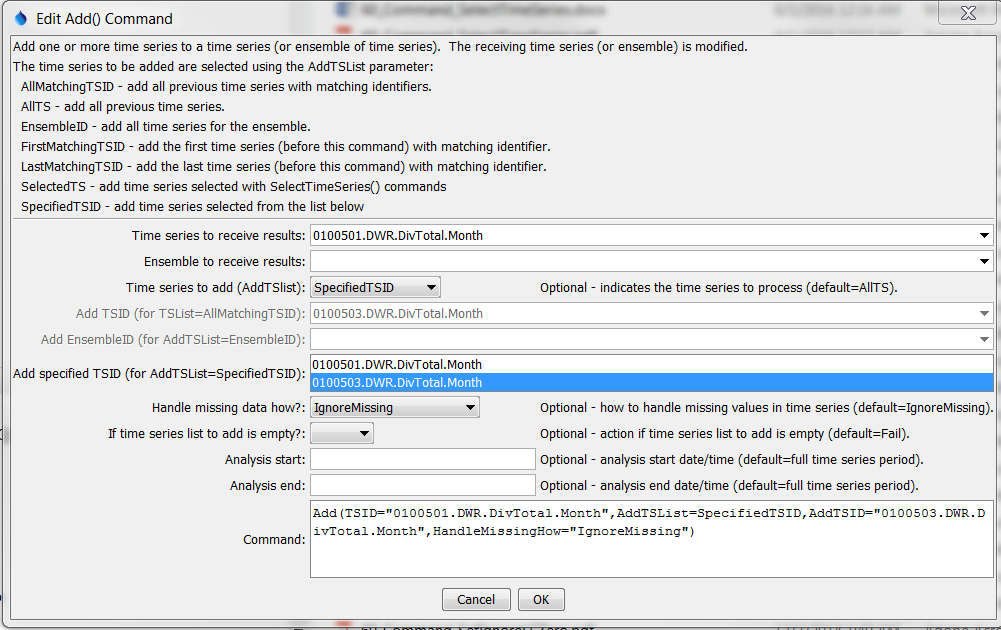
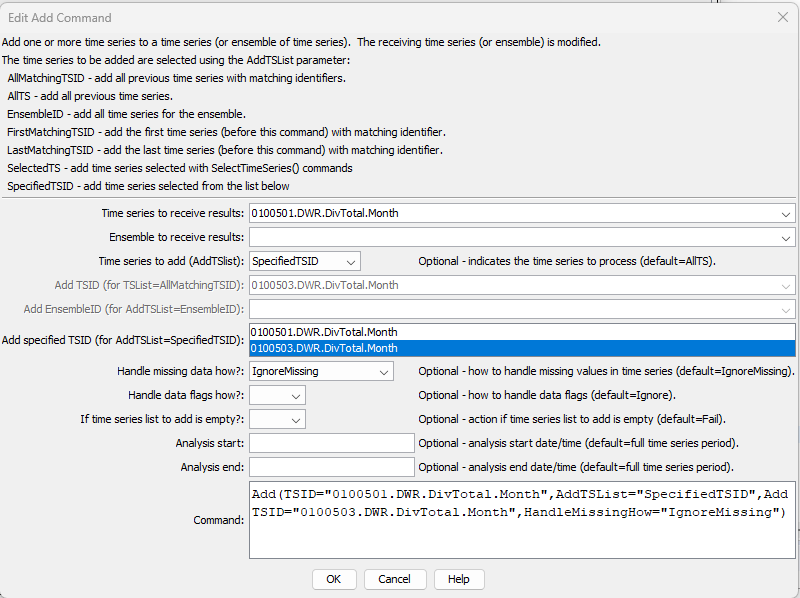
Update documentation for the 14.9.3 release, issue #142

Changed region(s): [[0.0, 0.0, 1.0, 1.0], [0.9688, 0.6923, 1.0, 0.7224]]

diff --git a/mkdocs-project/docs/command-ref/CompareTables/CompareTables.md b/mkdocs-project/docs/command-ref/CompareTables/CompareTables.md
@@ -11,27 +11,54 @@
 
 ## Overview ##
 
-The `CompareTables` command compares columns from two tables, with the following considerations:
+The `CompareTables` command compares data from two tables, with the following considerations:
 
 *   Comparisons are made using the data values formatted as strings based on the precision shown in tables.
-    If the table was read with [`ReadTableFromDelimitedFile`](../ReadTableFromDelimitedFile/ReadTableFromDelimitedFile.md),
-    the precision for floating point numbers is set based on the largest
-    number of digits after the decimal encountered in the input.
+    +   If the table was read with [`ReadTableFromDelimitedFile`](../ReadTableFromDelimitedFile/ReadTableFromDelimitedFile.md),
+        the precision for floating point numbers is set based on the largest
+        number of digits after the decimal encountered in the input.
+    +   If the table was read from a database, the precision is based on database column precision.
+    +   The precision from other sources depends on the input source.
 *   A precision and tolerance can optionally be specified to control the comparison of floating point values.
 *   The first table's content is considered the primary content for comparison purposes.
-    If the second table is shorter than the first, additional empty rows are added for comparison.
-*   Currently there is no way to align rows from the first and second table,
-    such as by matching identifiers in a column.
-    Filtering must have been done previously, such as by using SQL for database queries or the
-    [`CopyTable`](../CopyTable/CopyTable.md) command
-*   Empty tables or tables of different length generate an additional warning and are
-    not subject to the `AllowedDiff` command parameter.
+*   The comparison can use the `Simple` or `Advanced` analysis method.
+    +   `AnalysisMethod=Simple` assumes that the tables have the same structure and
+        can be compared without inserting rows to align,
+        for example data read from similar datasets.
+    +   `AnalysisMethod=Advanced` will cause rows to be inserted in output to align
+        matching table rows, where matching rows can be specified using
+        one or more columns (e.g., column(s) that provide unique identifiers).
+*   The determination of the number of differences uses the first difference table to compare cell values,
+    ignoring the row number columns.  See the example below.
 
-An optional table and file showing the comparison results can be created:
+If `AnalysisMethod=Simple`, then a single "difference table" and file can be created to show differences.
+If `AnalysisMethod=Advanced`, then a "difference table" and file can be created for each of the two input files
+and a combined difference file.
+Creating an HTML output file allows differences to be color coded.
 
-*   Values that are the same are shown in the new table without modification.
-*   Values that are different result in both table values being shown (as strings) to allow comparison.
-*   The command also allows the comparison table to be output to an HTML file, in which case different values are shown as red.
+The following example shows HTML output files from `AnalysisMethod=Advanced`.
+
+**<p style="text-align: center;">
+![CompareTables difference tables](difftables.png)
+</p>**
+
+**<p style="text-align: center;">
+`CompareTables` Difference Tables (<a href="../difftables.png">see full-size image</a>)
+</p>**
+
+*   The `RowNumberColumn` parameter can be specified to insert a row number column in each table,
+    which helps to cross-reference with the original table rows.
+*   Cells that are the same in both tables have a white background and
+    rows are aligned horizontally.
+*   Values that are different have yellow background and show both tables' values as text.
+*   Rows that exist only in the first (left) table have blue background.
+*   Rows that exist only in the second (right) table have green background.
+*   Rows with empty cells that are added to align rows have grey background.
+*   Rows that do not exist in the table have black background.
+*   Cells that could not be evaluated and have unknown comparison are shown in darker grey
+    (should only occur if there is a software error).
+*   Cells that could not be compared have a red background
+    (should only occur if there is a software error).
 
 ## Command Editor ##
 
@@ -40,14 +67,34 @@ The command is available in the following TSTool menus:
 *   ***Commands / General - Test Processing***
 *   ***Commands(Table) / Analyze Table***
 
-The following dialog is used to edit the command and illustrates the command syntax.
+The following dialog is used to edit the command and illustrates the command syntax for command parameters.
 
 **<p style="text-align: center;">
-![CompareTables command editor](CompareTables.png)
+![CompareTables command editor for input parameeters](CompareTables.png)
 </p>**
 
 **<p style="text-align: center;">
-`CompareTables` Command Editor (<a href="../CompareTables.png">see full-size image</a>)
+`CompareTables` Command Editor for Input Parameters (<a href="../CompareTables.png">see full-size image</a>)
+</p>**
+
+Analysis parameters are specified using the ***Analysis*** tab.
+
+**<p style="text-align: center;">
+![CompareTables command editor for analysis parameeters](CompareTables-Analysis.png)
+</p>**
+
+**<p style="text-align: center;">
+`CompareTables` Command Editor for Analysis Parameters (<a href="../CompareTables-Analysis.png">see full-size image</a>)
+</p>**
+
+Output parameters are specified using the ***Output*** tab.
+
+**<p style="text-align: center;">
+![CompareTables command editor for output parameeters](CompareTables-Output.png)
+</p>**
+
+**<p style="text-align: center;">
+`CompareTables` Command Editor for Output Parameters (<a href="../CompareTables-Output.png">see full-size image</a>)
 </p>**
 
 ## Command Syntax ##
@@ -58,26 +105,58 @@ The command syntax is as follows:
 CompareTables(Parameter="Value",...)
 ```
 **<p style="text-align: center;">
-Command Parameters
+Input Command Parameters
 </p>**
 
 |**Parameter**&nbsp;&nbsp;&nbsp;&nbsp;&nbsp;&nbsp;&nbsp;&nbsp;&nbsp;&nbsp;&nbsp;&nbsp;&nbsp;&nbsp;&nbsp; | **Description** | **Default**&nbsp;&nbsp;&nbsp;&nbsp;&nbsp;&nbsp;&nbsp;&nbsp;&nbsp;&nbsp;&nbsp;&nbsp;&nbsp;&nbsp;&nbsp;&nbsp;&nbsp;&nbsp;&nbsp;&nbsp;&nbsp; |
 |--------------|-----------------|----------------- |
-|`TableID1`<br>**required**|The identifier for the first table to be compared.|None – must be specified.|
-|`TableID2`<br>**required**|The identifier for the second table to be compared.	None – must be specified.
+|`Table1ID`<br>**required**|The identifier for the first table to be compared.|None – must be specified.|
+|`Table2ID`<br>**required**|The identifier for the second table to be compared. | None – must be specified. |
 |`CompareColumns1`|The names of columns to be compared from the first table, separated by commas.|All columns will be compared.|
+|`ExcludeColumns1`|The names of columns in the first table to be excluded from the comparison, separated by commas.|All columns will be compared.|
+|`MatchColumns1`|Used with `AnalysisMethod=Advanced`, the names of columns in the first table to be matched when aligning rows, separated by commas.|All columns will be compared to align.|
 |`CompareColumns2`|The names of columns to be compared from the second table, separated by commas.|All columns will be compared.|
+|`ExcludeColumns2`|The names of columns in the second table to be excluded from the comparison, separated by commas.|All columns will be compared.|
+|`MatchColumns2`|Used with `AnalysisMethod=Advanced`, the names of columns in the second table to be matched when aligning rows, separated by commas.|All columns will be compared to align.|
+|`MatchColumnsHow`|Indicate how columns are matched:<ul><li>`Name` - match column names</li><li>`Order` - match columns by order number (used when column names are not available)</li></ul>| `Name` |
+
+**<p style="text-align: center;">
+Analysis Command Parameters
+</p>**
+
+|**Parameter**&nbsp;&nbsp;&nbsp;&nbsp;&nbsp;&nbsp;&nbsp;&nbsp;&nbsp;&nbsp;&nbsp;&nbsp;&nbsp;&nbsp;&nbsp; | **Description** | **Default**&nbsp;&nbsp;&nbsp;&nbsp;&nbsp;&nbsp;&nbsp;&nbsp;&nbsp;&nbsp;&nbsp;&nbsp;&nbsp;&nbsp;&nbsp;&nbsp;&nbsp;&nbsp;&nbsp;&nbsp;&nbsp; |
+|--------------|-----------------|----------------- |
+|`AnalysisMethod`|The analysis method:<ul><li>`Advanced` - use for complex tables that may need rows aligned for comparison</li><li>`Simple` - use for simple tables that have the same structure and alignment</li></ul>.|`Simple`|
 |`Precision`|The number of digits after the decimal to consider when comparing floating point values. If values are different to the specified (or default) precision, both values are shown in the comparison table.|Format floating point numbers as strings for comparison according to the table column precision.|
 |`Tolerance`|A value indicating the allowed difference between floating point values.  The tolerance should be consistent with the precision (i.e., don’t specify a coarse precision and fine tolerance).  If the difference is less than the tolerance, the values will not be marked as different.|Floating point values must exactly match, according to the precision.|
 |`AllowedDiff`|The allowed number of differences before triggering a Warn/Fail message (see `IfDifferent`).  A value >= 0 indicates that the number of differences must be the same as the specified value.  A negative value indicates that the number of differences can be less than or equal to the specified value.  This parameter is useful for constructing tests where a specified number of differences is expected.|0|
-|`NewTableID`|The identifier for the new comparison table.|`Table1ID-Table2ID-comparison`|
-|`OutputFile`|If specified, an HTML table will be created for the comparison table, in which different values are highlighted in red.|No HTML output file will be created.|
 |`IfDifferent`|Indicates the action to be taken if the tables are different:<ul><li>`Ignore` – do not generate warning</li><li>`Warn` – generate a warning message</li><li>`Fail` – generate a failure message</li></ul>|Do not generate a warning if the tables are different.|
 |`IfSame`|Indicates the action to be taken if the tables are the same:<ul><li>`Ignore` – do not generate warning</li><li>`Warn` – generate a warning message</li><li>`Fail` – generate a failure message</li></ul>|Do not generate a warning if the tables are the same.|
+
+**<p style="text-align: center;">
+Output Command Parameters
+</p>**
+
+|**Parameter**&nbsp;&nbsp;&nbsp;&nbsp;&nbsp;&nbsp;&nbsp;&nbsp;&nbsp;&nbsp;&nbsp;&nbsp;&nbsp;&nbsp;&nbsp;&nbsp;&nbsp;&nbsp;&nbsp;&nbsp;&nbsp;&nbsp;&nbsp;&nbsp;&nbsp;&nbsp;&nbsp; | **Description** | **Default**&nbsp;&nbsp;&nbsp;&nbsp;&nbsp;&nbsp;&nbsp;&nbsp;&nbsp;&nbsp;&nbsp;&nbsp;&nbsp;&nbsp;&nbsp;&nbsp;&nbsp;&nbsp;&nbsp;&nbsp;&nbsp;&nbsp;&nbsp;&nbsp;&nbsp;&nbsp;&nbsp;&nbsp;&nbsp;&nbsp;&nbsp; |
+|--------------|-----------------|----------------- |
+|`DiffTable1ID`|The identifier for the first difference table, which indicates differences from the perspective of the first table.  This was `NewTableID` prior to TSTool 14.9.3. |`Table1ID-Table2ID-diff1`|
+|`DiffTable2ID`|The identifier for the second difference table, which indicates differences from the perspective of the second table. |`Table1ID-Table2ID-diff2`|
+|`DiffTableID`|The identifier for the combined difference table. | Not created. |
+|`RowNumberColumn`| New column to add to output containing the row number from the original table. | |
+|`DiffFile1`|If specified, an HTML table will be created for the first difference table, with colored cells.  This was `OutputFile` prior to TSTool 14.9.3. | No HTML output file will be created. |
+|`DiffFile2`|If specified, an HTML table will be created for the second difference table, with colored cells. | No HTML output file will be created. |
+|`DiffFile`|If specified, an HTML table will be created for the combined difference table, with colored cells. | No HTML output file will be created. |
+|`OutputRows`| Indicate which difference table rows to output:<ul><li>`All` - output all rows</li><li>`Different` - output only different rows</li><li>`Same` - output only same rows</li></ul> | `All`|
+|`DiffRowCountProperty` | Name of the processor property to set with the number of different rows. | |
+|`DiffCellCountProperty` | Name of the processor property to set with the number of different cells. | |
+|`SameRowCountProperty` | Name of the processor property to set with the number of same rows. | |
+|`SameCellCountProperty` | Name of the processor property to set with the number of same cells. | |
 
 ## Examples ##
 
 See the [automated tests](https://github.com/OpenCDSS/cdss-app-tstool-test/tree/master/test/commands/CompareTables).
+
+The tests with `Legacy` in the name use older command parameter names.
 
 ## Troubleshooting ##
 

diff --git a/mkdocs-project/docs/appendix-release-notes/release-notes-14.md b/mkdocs-project/docs/appendix-release-notes/release-notes-14.md
@@ -5,6 +5,7 @@ See also the [GitHub repository issues](https://github.com/OpenCDSS/cdss-app-tst
 for outstanding issues and enhancement requests.
 Issues may also be included in other repositories that are TSTool components.
 
+*   [Changes in Version 14.9.3](#changes-in-version-1493)
 *   [Changes in Version 14.9.2](#changes-in-version-1492)
 *   [Changes in Version 14.9.1](#changes-in-version-1491)
 *   [Changes in Version 14.9.0](#changes-in-version-1490)
@@ -39,6 +40,39 @@ Issues may also be included in other repositories that are TSTool components.
 *   [Release notes for all versions](release-notes.md)
 
 ----------
+
+## Changes in Version 14.9.3 ##
+
+**Maintenance release to improve table comparison and math.**
+
+*   ![bug](bug.png) [14.9.3] Update the
+    [`TableMath`](../command-ref/TableMath/TableMath.md) command:
+    +   Handle input table columns of type long integer.
+*   ![change](change.png) [14.9.3] The time series identifier editor dialog now has wider input fields.
+*   ![change](change.png) [14.9.3] Update the [`Add`](../command-ref/Add/Add.md) command:
+    +   The `HandleMissingHow` parameter now defaults to blank in the editor (`IgnoreMissing` is the default).
+    +   The `HandleDataFlagsHow` parameter has been added to control how data flags are handled.
+*   ![change](change.png) [14.9.3] Update the [`AppendTable`](../command-ref/AppendTable/AppendTable.md) command:
+    +   Add the `AppendRowNumbers` parameter to append specific row numbers.
+*   ![change](change.png) [14.9.3] Update the
+    [`CompareTables`](../command-ref/CompareTables/CompareTables.md) command:
+    +   The `AnalysisMethod` parameter has been added to allow simple and advanced analysis,
+        where the advanced analysis will shift rows in the output to align matching table rows
+    +   Output HTML has been enhanced to add more colors to provide more granularity in the comparison,
+        and the page title matches the difference table ID.
+    +   The `RowNumberColumn` parameter has been added to include the row number in output,
+        to simplify lookup of orginal input rows
+    +   The `NewTableID` and `OutputFile` command parameters have been renamed to support new advanced analysis.
+        Old parameter names are still supported.  See the command documentation.
+    +   The `OutputRows` parameter has been added to allow outputting all, different, or same rows.
+    +   The `DiffRowCountProperty`, `DiffCellCountProperty`, `SameRowCountProperty`, and `SameCellCountProperty`
+        parameters have been added to set processor properties for the number of different/same
+        rows and cells, useful for testing and logic checks.
+*   ![change](change.png) [14.9.3] Update the
+    [`If`](../command-ref/If/If.md) command:
+    +   Add warning if a property name is used in the condition statement without surrounding `${  }`.
+*   ![change](change.png) [14.9.3] Update the [`Subtract`](../command-ref/Subtract/Subtract.md) command:
+    +   The `HandleMissingHow` parameter now defaults to blank in the editor (`IgnoreMissing` is the default).
 
 ## Changes in Version 14.9.2 ##
 

diff --git a/mkdocs-project/docs/command-ref/Subtract/Subtract.md b/mkdocs-project/docs/command-ref/Subtract/Subtract.md
@@ -61,7 +61,7 @@ Command Parameters
 |`SubtractTSList`|Indicates the list of time series to be processed, one of:<br><ul><li>`AllMatchingTSID` – all time series that match the TSID (single TSID or TSID with wildcards) will be processed.</li><li>`AllTS` – all time series before the command.</li><li>`EnsembleID` – all time series in the ensemble will be processed (see the EnsembleID parameter).</li><li>`FirstMatchingTSID` – the first time series that matches the TSID (single TSID or TSID with wildcards) will be processed.</li><li>`LastMatchingTSID` – the last time series that matches the TSID (single TSID or TSID with wildcards) will be processed.</li><li>`SelectedTS` – the time series are those selected with the [`SelectTimeSeries`](../SelectTimeSeries/SelectTimeSeries.md) command.</li><li>`SpecifiedTSID` – the specified list of time series given by the `SubtractTSID` parameter.  **If using version 8.02.00 or earlier, use `SpecifiedTS`**.</li></ul> | `AllTS` (the time series receiving the result will not be subtracted from itself). |
 |`SubtractTSID`|The time series identifier or alias for the time series to be processed, using the `*` wildcard character to match multiple time series.  Can be specified using `${Property}`.|Required if `SubtractTSList=*TSID`|
 |`SubtractEnsembleID`|The ensemble to be processed, if processing an ensemble. Can be specified using `${Property}`.|Required if `SubtractTSList=*EnsembleID`.  Use if an ensemble is being subtracted from another ensemble.|
-|`HandleMissingHow`|Indicates how to handle missing data in a time series:<ul><li>`IgnoreMissing` – create a result even if missing data are encountered in one or more time series – this option is not as rigorous as the others</li><li>`SetMissingIfOtherMissing` – set the result missing if any of the other time series values is missing</li><li>`SetMissingIfAnyMissing` – set the result missing if any time series value involved is missing	IgnoreMissing</li></ul>|`IgnoreMissing`|
+|`HandleMissingHow`|Indicates how to handle missing data in a time series:<ul><li>`IgnoreMissing` – create a result even if missing data are encountered in one or more time series – this option is not as rigorous as the others</li><li>`SetMissingIfOtherMissing` – set the result missing if any of the other time series values is missing</li><li>`SetMissingIfAnyMissing` – set the result missing if any time series value involved is missing</li></ul>|`IgnoreMissing`|
 |`AnalysisStart`|The date/time to start analyzing data.  Can be specified using processor `${Property}`.|Full period is analyzed.|
 |`AnalysisEnd`|The date/time to end analyzing data.  Can be specified using processor `${Property}`.|Full period is analyzed.|
 

diff --git a/mkdocs-project/docs/command-ref/AppendTable/AppendTable.md b/mkdocs-project/docs/command-ref/AppendTable/AppendTable.md
@@ -54,6 +54,7 @@ Command Parameters
 |`ColumnMap`|The map of the append table columns to the first table’s columns, necessary when column names are not the same:<br>`AppendColumn1:OriginalColumn1, AppendColumn2:OriginalColumn2`<br>The `${Property}` syntax is recognized. |If no map, append table column names in `IncludeColumns` must have the same name in the first table.|
 |`ColumnData`|Data values to set in appended rows:<br>`AppendColumn1:DataValue1, AppendColumn2:DataValue2`<br>This is useful when the appended columns need constant data inserted for each row, for example when transposing year from a column heading to year as data.  The `${Property}` syntax is recognized. |No additional data are used.|
 |`ColumnFilters`|Filters that limit the number of rows being appended from the append table, using the syntax:<br>`AppendColumn1:FilterPattern1, AppendColumn2:FilterPattern2`<br>Patterns can use `*` to indicate wildcards for matches.  Only string values can be checked (other data types are converted to strings for comparison).  Comparisons are case-independent.  All patterns must be matched in order to append the row.  In the future a command may be added to perform queries on tables, similar to SQL for databases.  Can use `${Property}` notation.|No filtering.|
+|`AppendRowNumbers`|Only append the specified row numbers (1+) from the second table, specified as a comma-delimited list containing:<ul><li>row number 1+</li><li>`last` - last row</li><li>in the future ranges may be supported</li></ul>|Append all rows that match the column filters.|
 
 ## Examples ##
 

diff --git a/mkdocs-project/docs/command-ref/Add/Add.md b/mkdocs-project/docs/command-ref/Add/Add.md
@@ -60,6 +60,7 @@ Command Parameters
 |`AddTSID`|The time series identifier or alias for the time series to be processed, using the `*` wildcard character to match multiple time series.  Can be specified using `${Property}`.|Required if `AddTSList=*TSID`|
 |`AddEnsembleID`|The ensemble to be processed, if processing an ensemble. Can be specified using `${Property}`.|Required if `AddTSList=*EnsembleID`.  Use if an ensemble is being added to another ensemble.|
 |`HandleMissingHow`|Indicates how to handle missing data in a time series:<ul><li>`IgnoreMissing` – create a result even if missing data are encountered in one or more time series – this option is not as rigorous as the others</li><li>`SetMissingIfOtherMissing` – set the result missing if any of the other time series values is missing</li><li>`SetMissingIfAnyMissing` – set the result missing if any time series value involved is missing `IgnoreMissing`</li></ul>|`IgnoreMissing`|
+|`HandleDataFlagsHow`|Indicates how to handle data flags:<ul><li>`Ignore` - do not modify the data flags</li><li>`Set` - set (override) the data flags in the result to the added time series</li></ul>|`Ignore`|
 |`IfTSListToAddIsEmpty`|Action if time series list to add is empty.|`Fail`|
 |`AnalysisStart`|The date/time to start analyzing data.  Can be specified using processor `${Property}`.|Full period is analyzed.|
 |`AnalysisEnd`|The date/time to end analyzing data.  Can be specified using processor `${Property}`.|Full period is analyzed.|

diff --git a/mkdocs-project/docs/appendix-release-notes/release-notes.md b/mkdocs-project/docs/appendix-release-notes/release-notes.md
@@ -34,6 +34,7 @@ TSTool Version History Summary (most current at top)
 
 |**TSTool Version(s)**&nbsp;&nbsp;&nbsp;&nbsp;&nbsp;&nbsp;&nbsp;&nbsp;&nbsp;&nbsp;&nbsp;&nbsp;&nbsp;&nbsp;&nbsp;&nbsp;&nbsp;&nbsp;&nbsp;&nbsp;|**Summary of Major Changes in Version**|**Release Date**|
 |--|--|--|
+|[14.9.3](release-notes-14.md)|Maintenance release to improve table comparison and math. | 2024-02-26 |
 |[14.9.2](release-notes-14.md)|Maintenance release to enable step graph. | 2024-01-02 |
 |[14.9.1](release-notes-14.md)|Maintenance release to enhance plugin integration and fix workflow issues. | 2023-12-04 |
 |[14.9.0](release-notes-14.md)|Feature release to use OpenJDK 8, enable additional plotting symbols, map view fixes. | 2023-10-30 |

diff --git a/mkdocs-project/docs/index.md b/mkdocs-project/docs/index.md
@@ -12,7 +12,7 @@ This documentation is generally referred to as the **"User Documentation"** in c
 *   [About the Open Water Foundation](#about-the-open-water-foundation)
 *   [License](#license)
 *   [Source Repository on GitHub](#source-repository-on-github)
-*   [Release Notes](appendix-release-notes/release-notes-14.md) - **this documentation has been updated for TSTool version 14.9.2**
+*   [Release Notes](appendix-release-notes/release-notes-14.md) - **this documentation has been updated for TSTool version 14.9.3**
 
 ----------------
 
